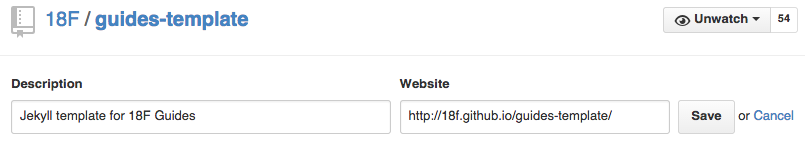
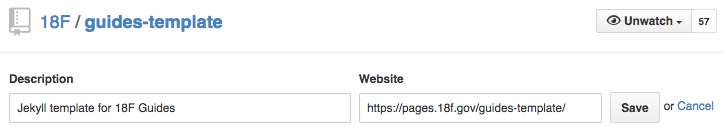
Update instructions for pages.18f.gov

diff --git a/pages/posting.md b/pages/posting.md
@@ -3,43 +3,57 @@ permalink: /post-your-guide/
 layout: default
 title: Post Your Guide
 ---
-**NOTICE:** This chapter reflects the _current_ method of publishing and
-posting 18F Guides. This may change in the near future; stay tuned.
-
-- [Create the `gh-pages` branch](#create-gh-pages-branch)
+- [Create the `18f-pages` branch](#create-18f-pages-branch)
 - [Set the default branch](#set-default-branch)
+- [Create the publishing webhook](#set-webhook)
+- [Trigger a build](#trigger-a-build)
 - [Add the new guide to 18F Guides](#add-new-guide)
 
-## <a name="#create-gh-pages-branch"></a>Create the `gh-pages` branch
+## <a name="create-18f-pages-branch"></a>Create the `18f-pages` branch
 
-In order to publish your guide automatically to `18f.github.io`, you will need
-to create a `gh-pages` branch. You can do this using the GitHub interface by
-clicking the **branch: master** button and entering `gh-pages` in the **Switch
+In order to publish your guide automatically to `pages.18f.gov`, you will need
+to create an `18f-pages` branch. You can do this using the GitHub interface by
+clicking the **branch: master** button and entering `18f-pages` in the **Switch
 branches/tags** drop-down box:
 
-<img src="{{site.baseurl}}/images/gh-pages.png" alt="GitHub branch creation
+<img src="{{site.baseurl}}/images/18f-pages.png" alt="GitHub branch creation
 interface">
 
-## <a name="#set-default-branch"></a>Set the default branch
+## <a name="set-default-branch"></a>Set the default branch
 
-You also need to set `gh-pages` branch as the default. First, click the **Settings** page button (on the right side of the screen):<br/>
+You also need to set `18f-pages` branch as the default. First, click the **Settings** page button (on the right side of the screen):<br/>
 <img src="{{site.baseurl}}/images/gh-settings-button.png" alt="GitHub settings page button">
 
-This will present you with the **Options** page. In the **Settings** section, select `gh-pages` from the **Default branch** drop-down menu:<br/>
+This will present you with the **Options** page. In the **Settings** section, select `18f-pages` from the **Default branch** drop-down menu:<br/>
 <img src="{{site.baseurl}}/images/gh-default-branch.png" alt="GitHub default branch option">
 
 Deleting the original `master` branch, both on GitHub and locally, is left as
 an exercise for the reader. Doing so will help avoid confusion in the long run,
 but is not strictly necessary.
 
-## <a name="https://github.com/CFPB/DOCter"></a>Add the new guide to 18F Guides
+## <a name="set-webhook"></a>Create the publishing webhook
+
+Now go into the **Webhooks & Services** section of the **Settings** section
+and click the **Add webhook** button. On the following screen, set the
+**Payload URL** to `https://pages.18f.gov/deploy`, leave the **Secret** field
+blank, and click **Update webhook**:
+
+<img src="{{site.baseurl}}/images/gh-webhook.png" alt="Set the GitHub webhook">
+
+## <a name="trigger-a-build"></a>Trigger a build
+
+With the webhook in place, push an update to your `18f-pages` branch to your
+GitHub repository. Within seconds, your guide should appear at
+`https://pages.18f.gov/$REPO-NAME`. Your guide is now live!
+
+## <a name="add-new-guide"></a>Add the new guide to 18F Guides
 
 Now for the final step: Add an entry to the list of [18F
 Guides](http://18f.github.io/guides/) linking to your new guide. You can [use
 this link to edit the file directly in
-GitHub](https://github.com/18F/guides/edit/gh-pages/index.md):
+GitHub](https://github.com/18F/guides/edit/18f-pages/index.md):
 
 <img src="{{site.baseurl}}/images/gh-add-guide.png" alt="Add the new guide to 18F Guides using the GitHub text editor">
 
 Congratulations! Your guide should now be published and accessible to the world
-as one of the few, the proud, the [18F Guides](http://18f.github.io/guides)!
+as one of the few, the proud, the [18F Guides](https://pages.18f.gov/guides/)!
